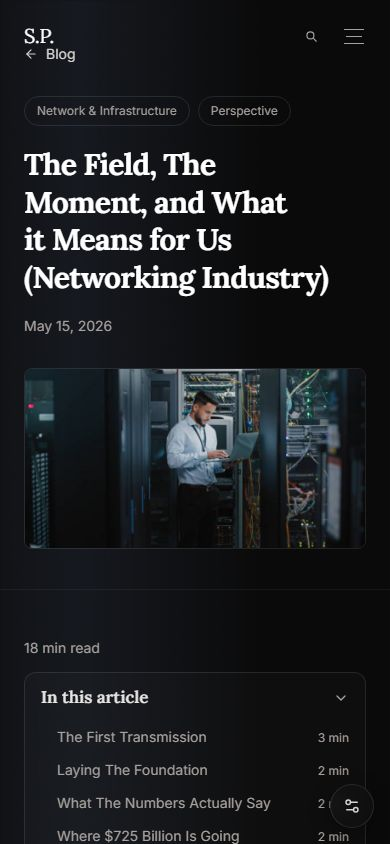
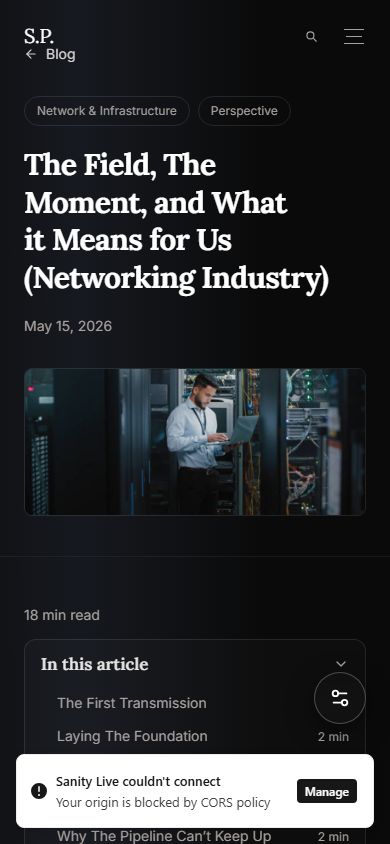
Reading progress measures the article, not the page
The bar divided window.scrollY by the document's scroll height, so it filled at
the bottom of the footer. On the longest post the article ends at scroll 12299 and
the document at 14638: 2,339px of sources, corrections, credibility apparatus,
comment thread, newsletter form and site chrome were being counted as article. A
reader who had finished the piece was shown about three quarters and told they had
minutes left, and minutesLeft is derived from the same fraction while being
computed from the BODY's word count, so the two numbers disagreed by construction.

lib/articleScroll.ts is now the single definition of where the article ends: the
moment its last line reaches the bottom of the viewport. The start stays at the top
of the document, because the title and the hero are read too.

Five call sites use it, and the four that are not the bar matter more than they
look. The saved reading position and its restore, and the bookmark's "go to my
place", were storing a fraction of one range and restoring it against another: a
place saved at 90% of the article came back somewhere in the comment thread. The
tour's 25%-in trigger had the same bug in the opposite direction, firing later on
posts with more apparatus beneath them.

Measured after, on the longest post: 100% with 2,339px of page still below,
"0 min left · 100% read" at the same moment, and 50% at the midpoint of the
article rather than of the page. measure-progress-readout.mjs 28/28.
[…]

diff --git a/components/article/ArticleProvider.tsx b/components/article/ArticleProvider.tsx
@@ -4,6 +4,7 @@ import {
   createContext, useCallback, useContext, useEffect, useMemo, useRef, useState, type ReactNode,
 } from 'react'
 import { useReducedMotion } from 'framer-motion'
+import { readingFraction, readingRangeEnd } from '@/lib/articleScroll'
 import { slugify } from '@/lib/reading'
 import {
   ARTICLE_THEMES, DEFAULT_FONT_SIZE_INDEX, FONT_SIZES, READING_SCALES, READING_SCALE_KEYS,
@@ -257,6 +258,7 @@ export function ArticleProvider({
   const elsRef = useRef<HTMLElement[]>([])
   const offsetsRef = useRef<number[]>([])
   const rafRef = useRef(0)
+  const rangeRef = useRef(0)
   const lastRef = useRef({ activeId: '', progress: -1 })
 
   // ── Load persisted settings once on the client ─────────────────
@@ -274,6 +276,10 @@ export function ArticleProvider({
     const measure = () => {
       const scrollY = window.scrollY
       offsetsRef.current = elsRef.current.map((el) => el.getBoundingClientRect().top + scrollY)
+      // The reading range is re-measured by the same three triggers as the heading offsets --
+      // resize, a ResizeObserver on the article, and once more after fonts and images settle --
+      // because it moves for exactly the same reasons and by the same amount.
+      rangeRef.current = readingRangeEnd()
     }
 
     const { headings: found, els } = collectHeadings(root)
@@ -307,8 +313,11 @@ export function ArticleProvider({
       rafRef.current = 0
       const scrollY = window.scrollY
       const vh = window.innerHeight
-      const max = document.documentElement.scrollHeight - vh
-      const pct = max > 0 ? Math.min(1, Math.max(0, scrollY / max)) : 0
+      // Cached rather than measured per frame: this runs on every rAF while scrolling, and
+      // `readingRangeEnd` reads layout. The fallback covers the first frames, before the
+      // measure effect has run.
+      const end = rangeRef.current || readingRangeEnd()
+      const pct = readingFraction(scrollY, end)
       const rounded = Math.round(pct * 1000) / 1000
       if (rounded !== lastRef.current.progress) {
         lastRef.current.progress = rounded
@@ -365,9 +374,12 @@ export function ArticleProvider({
     let moved = false
     const save = () => {
       if (!moved) return
-      const max = document.documentElement.scrollHeight - window.innerHeight
-      if (max <= 0) return
-      writePosition(slug, Math.min(1, Math.max(0, window.scrollY / max)))
+      // The SAME range the bar uses. A stored position and a shown percentage have to be the
+      // same number, or "resume where you stopped" lands somewhere the reader was never
+      // told they had reached.
+      const end = readingRangeEnd()
+      if (end <= 0) return
+      writePosition(slug, readingFraction(window.scrollY, end))
     }
     const onScroll = () => {
       moved = true
@@ -400,9 +412,9 @@ export function ArticleProvider({
     restoredRef.current = slug
     const t = window.setTimeout(() => {
       if (window.scrollY > 8) return
-      const max = document.documentElement.scrollHeight - window.innerHeight
-      if (max <= 0) return
-      window.scrollTo({ top: Math.round(frac * max), behavior: 'instant' })
+      const end = readingRangeEnd()
+      if (end <= 0) return
+      window.scrollTo({ top: Math.round(frac * end), behavior: 'instant' })
     }, 900)
     return () => window.clearTimeout(t)
   }, [hydrated, slug, settings.resumeScroll])

diff --git a/tests/smoke.spec.ts b/tests/smoke.spec.ts
@@ -111,6 +111,42 @@ test('security headers are present', async ({ request }) => {
 })
 
 test.describe('article page', () => {
+  // The bar measured the DOCUMENT, so it filled at the bottom of the footer: the sources,
+  // the corrections, the credibility block, the comment thread, the newsletter form and the
+  // site chrome all counted as article. A reader who had finished the piece was shown about
+  // three quarters and told they had minutes left. It measures the article now, and this is
+  // the guard on that, in the suite rather than only in a phase harness because it is a
+  // one-line regression: any future `document.documentElement.scrollHeight` in the scroll
+  // handler brings it straight back.
+  test('the progress bar fills at the end of the article, not at the footer', async ({ page, request }) => {
+    const slug = await firstPostSlug(request)
+    test.skip(!slug, 'no blog posts published yet')
+    await page.goto(`/blog/${slug}`)
+    await page.waitForTimeout(1200)
+
+    const range = await page.evaluate(() => {
+      const el = document.querySelector('[data-article]')
+      return {
+        articleEnd: el ? Math.round(el.getBoundingClientRect().bottom + window.scrollY - window.innerHeight) : null,
+        documentEnd: Math.round(document.documentElement.scrollHeight - window.innerHeight),
+      }
+    })
+    // Precondition. If the article ended where the document ends, this test could not tell a
+    // fixed bar from a broken one and would pass on both.
+    expect(range.articleEnd).not.toBeNull()
+    expect(range.documentEnd - (range.articleEnd as number)).toBeGreaterThan(300)
+
+    await page.evaluate((y: number) => window.scrollTo({ top: y, behavior: 'instant' }), range.articleEnd as number)
+    await page.waitForTimeout(600)
+    const atArticleEnd = await page.locator('[role="progressbar"]').getAttribute('aria-valuenow')
+    expect(Number(atArticleEnd)).toBeGreaterThanOrEqual(99)
+
+    await page.evaluate(() => window.scrollTo({ top: document.documentElement.scrollHeight, behavior: 'instant' }))
+    await page.waitForTimeout(400)
+    const atPageEnd = await page.locator('[role="progressbar"]').getAttribute('aria-valuenow')
+    expect(Number(atPageEnd)).toBe(100)
+  })
+
   test('keeps one TOC per breakpoint, one progress bar and the reader menu', async ({ page, request }) => {
     const slug = await firstPostSlug(request)
     test.skip(!slug, 'no blog posts published yet')

diff --git a/lib/articleScroll.ts b/lib/articleScroll.ts
@@ -1,0 +1,42 @@
+// lib/articleScroll.ts
+//
+// WHERE THE ARTICLE ENDS, in scroll coordinates. One definition, used by everything that
+// turns a scroll position into a fraction.
+//
+// The progress bar used to divide by the DOCUMENT's scrollable height, so it reached 100%
+// at the bottom of the footer. Everything under the prose counted as reading: the sources,
+// the corrections, the credibility apparatus, the comment thread, the newsletter form and
+// the site footer. On the longest post that is a large share of the page, so a reader who
+// had genuinely finished the article was shown about three quarters and told they had
+// minutes left. The number was measuring the page, and the reader is reading the piece.
+//
+// The range ends when the LAST LINE OF THE ARTICLE reaches the bottom of the viewport. That
+// is the moment the prose is finished, not the moment it scrolls out of sight, so the bar
+// fills exactly as the reader runs out of article. `minutesLeft` is derived from the same
+// fraction and is computed from the body's word count, so the two are now the same fact
+// instead of two different ones.
+//
+// The start stays at the top of the DOCUMENT rather than the top of `[data-article]`. The
+// title, the hero and the standfirst are read too; starting the count below them would show
+// a reader who has read the opening a progress bar still sitting at zero.
+
+/**
+ * The scroll position at which the article is fully read.
+ *
+ * Falls back to the document's own scroll height when there is no article on the page (the
+ * blog index shares this provider) or when the article is shorter than the viewport, which
+ * would otherwise make every position 100%.
+ */
+export function readingRangeEnd(): number {
+  const doc = document.documentElement.scrollHeight - window.innerHeight
+  const el = document.querySelector<HTMLElement>('[data-article]')
+  if (!el) return doc
+  const end = el.getBoundingClientRect().bottom + window.scrollY - window.innerHeight
+  return end > 0 ? Math.min(end, doc) : doc
+}
+
+/** The same range as a fraction, clamped. `end` is passed in where it is already cached. */
+export function readingFraction(scrollY: number, end = readingRangeEnd()): number {
+  if (end <= 0) return 0
+  return Math.min(1, Math.max(0, scrollY / end))
+}

diff --git a/components/article/ReadingToolbar.tsx b/components/article/ReadingToolbar.tsx
@@ -6,6 +6,7 @@ import { Check, Pause, Play, Settings2, Square, X } from 'lucide-react'
 import { useArticle, useArticleOptional } from '@/components/article/ArticleProvider'
 import { useReadAloud } from '@/components/article/useReadAloud'
 import type { ArticleUiCopy } from '@/lib/cms/defaults/articleUi'
+import { readingRangeEnd } from '@/lib/articleScroll'
 import { clearBookmark, readBookmark, writeBookmark } from '@/lib/articleStorage'
 import { ARTICLE_THEMES, ARTICLE_WIDTHS, FONT_SIZES, READING_SCALES, READING_SCALE_KEYS, THEME_OPTIONS } from '@/lib/articleThemeStyles'
 import { FOCUS, buttonClass } from '@/lib/ui'
@@ -219,8 +220,10 @@ function ReadingToolbarInner({ copy, markdown, deck, variant = 'article', tourLa
   const goToPlace = () => {
     const b = readBookmark(slug)
     if (!b) return
-    const max = document.documentElement.scrollHeight - window.innerHeight
-    window.scrollTo({ top: max * b.pct, behavior: settings.reducedMotion ? 'auto' : 'smooth' })
+    // Against the ARTICLE's range, the same one the bar fills and the same one the bookmark
+    // was written from. Divided by the document instead, a place saved at 90% of the article
+    // came back somewhere in the comment thread.
+    window.scrollTo({ top: readingRangeEnd() * b.pct, behavior: settings.reducedMotion ? 'auto' : 'smooth' })
     setOpen(false)
   }
   const clearPlace = () => { clearBookmark(slug); setHasBookmark(false) }

diff --git a/components/article/ReadingTour.tsx b/components/article/ReadingTour.tsx
@@ -1,6 +1,7 @@
 'use client'
 
 import { useCallback, useEffect, useRef, useState } from 'react'
+import { readingFraction } from '@/lib/articleScroll'
 import { FOCUS } from '@/lib/ui'
 import type { ArticleUiCopy } from '@/lib/cms/defaults/articleUi'
 // components/article/ReadingTour.tsx
@@ -80,8 +81,11 @@ export function ReadingTour({ copy }: { copy: ArticleUiCopy['tour'] }) {
       clearTimeout(timer)
     }
     const onScroll = () => {
-      const max = document.documentElement.scrollHeight - window.innerHeight
-      if (max > 0 && window.scrollY / max >= SCROLL_TRIGGER) open()
+      // A quarter of the ARTICLE, not a quarter of the page. Measured against the document
+      // the trigger fired later on posts with long comment threads and newsletter blocks
+      // below them, which is precisely backwards: the more page there is under the piece,
+      // the further into the reading the reader would have to be before being offered help.
+      if (readingFraction(window.scrollY) >= SCROLL_TRIGGER) open()
     }
     const timer = setTimeout(open, TIME_TRIGGER_MS)
     window.addEventListener('scroll', onScroll, { passive: true })
